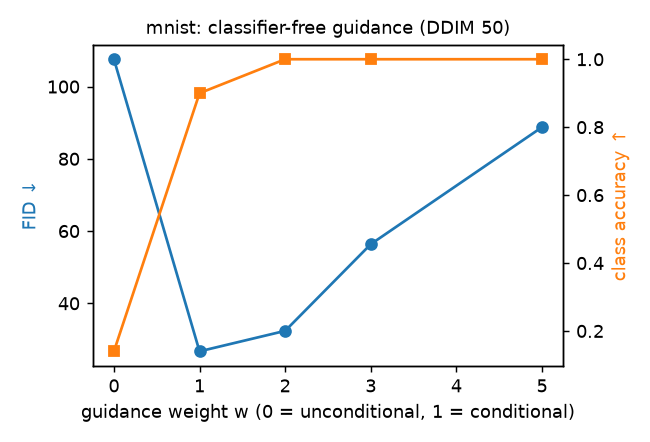
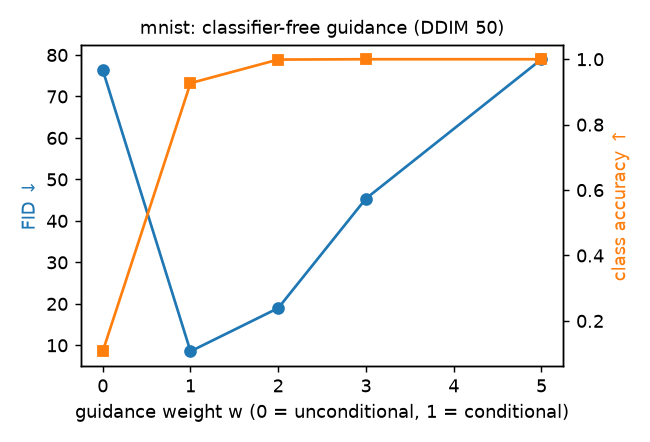
feat: rerun MNIST evaluation at N=1000 with the DDIM eta ablation
At w=2, 50-step DDIM matches 1000-step DDPM's 99.9% class accuracy with FID
19.0 vs 28.0 (real floor 3.1), 18-21x faster. Adding stochasticity to DDIM
moves FID back toward DDPM (22.6 at eta=0.5, 30.1 at eta=1), and at 10
steps eta=1 doubles FID (36.4 vs 18.6).

diff --git a/results/mnist_metrics.md b/results/mnist_metrics.md
@@ -1,14 +1,17 @@
-Classifier test accuracy: 98.84%. N = 100 samples per config.
+Classifier test accuracy: 98.84%. N = 1000 samples per config.
 
 | run | steps | guidance | class acc | FID (clf feats) | KID x1000 |
 |---|---|---|---|---|---|
-| ddim50_w0 | 50 | 0.0 | 14.0% | 107.57 | 365.64 |
-| ddim50_w1 | 50 | 1.0 | 90.0% | 26.70 | -2.12 |
-| ddpm1000_w2 | 1000 | 2.0 | 100.0% | 44.02 | 64.44 |
-| ddim100_w2 | 100 | 2.0 | 100.0% | 32.45 | 1.98 |
-| ddim50_w2 | 50 | 2.0 | 100.0% | 32.37 | 2.01 |
-| ddim20_w2 | 20 | 2.0 | 100.0% | 30.91 | -4.96 |
-| ddim10_w2 | 10 | 2.0 | 100.0% | 28.73 | -18.21 |
-| ddim50_w3 | 50 | 3.0 | 100.0% | 56.36 | 133.04 |
-| ddim50_w5 | 50 | 5.0 | 100.0% | 88.76 | 336.31 |
-| real_train_images |  |  | 100.0% | 22.44 | -32.20 |
+| ddim50_w0 | 50 | 0.0 | 10.7% | 76.37 | 312.81 |
+| ddim50_w1 | 50 | 1.0 | 92.7% | 8.55 | 25.58 |
+| ddpm1000_w2 | 1000 | 2.0 | 99.9% | 28.03 | 132.14 |
+| ddim100_w2 | 100 | 2.0 | 99.8% | 18.69 | 78.83 |
+| ddim50_w2 | 50 | 2.0 | 99.9% | 18.98 | 80.69 |
+| ddim50_w2_eta0.5 | 50 | 2.0 | 99.7% | 22.56 | 107.32 |
+| ddim50_w2_eta1 | 50 | 2.0 | 100.0% | 30.13 | 148.39 |
+| ddim20_w2 | 20 | 2.0 | 99.9% | 19.36 | 81.35 |
+| ddim10_w2 | 10 | 2.0 | 99.9% | 18.56 | 72.20 |
+| ddim10_w2_eta1 | 10 | 2.0 | 100.0% | 36.44 | 159.65 |
+| ddim50_w3 | 50 | 3.0 | 100.0% | 45.38 | 251.98 |
+| ddim50_w5 | 50 | 5.0 | 100.0% | 78.97 | 490.80 |
+| real_train_images |  |  | 99.0% | 3.13 | 0.38 |
